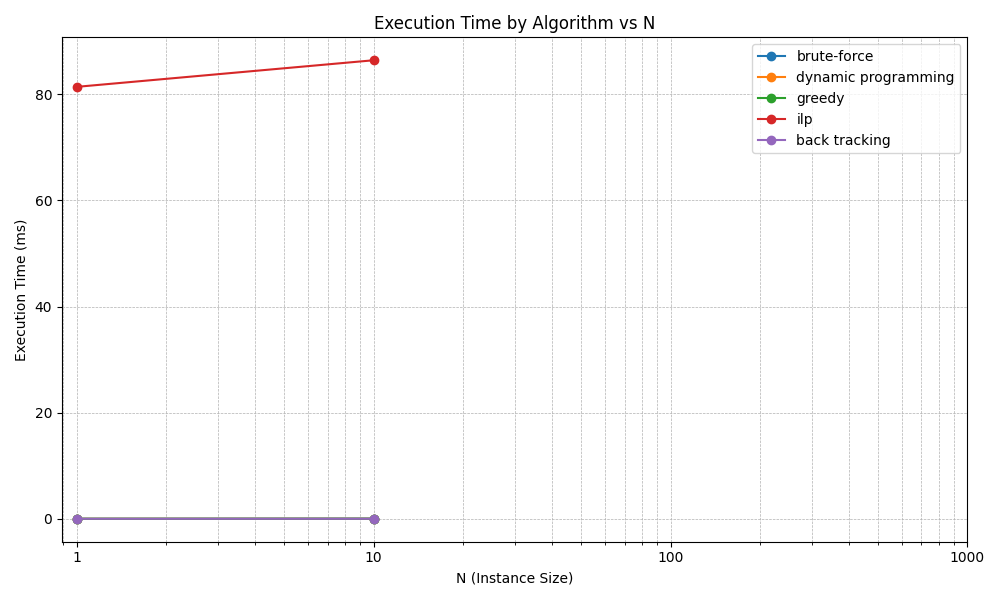
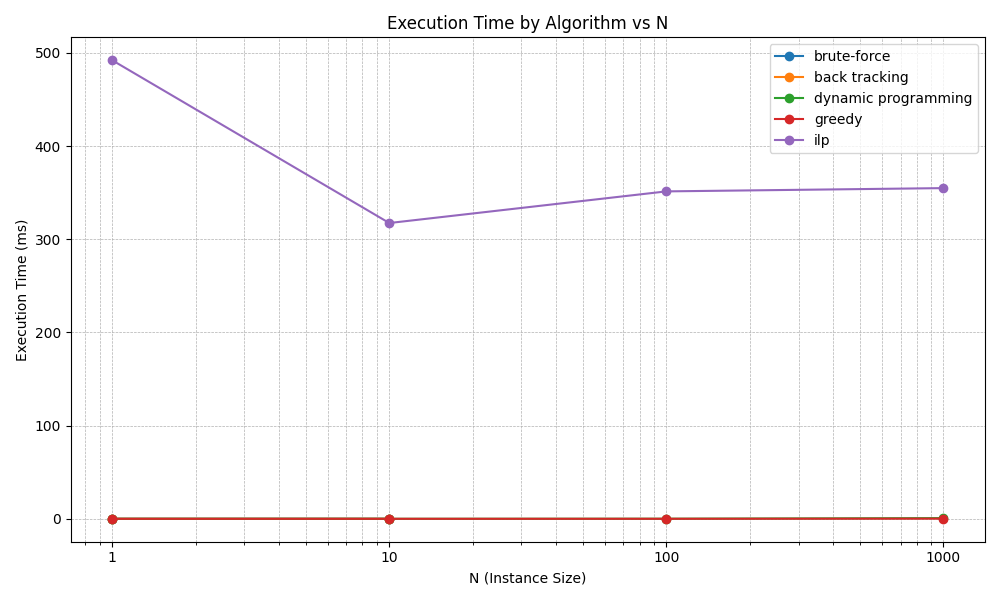
Commit versão final com os gráficos a funcionar
Falta fazer commit do results

diff --git a/main.cpp b/main.cpp
@@ -9,45 +9,67 @@
 
 // Modo batch: corre todos os algoritmos em todos os datasets
 void runBatchMode() {
-    std::ofstream clearFile("results.csv", std::ofstream::trunc);
+    std::ofstream clearFile("results_and_graphs/results.csv", std::ofstream::trunc);
     clearFile << "Dataset,Algorithm,Execution Time (ms),Total Profit,Total Weight,Selected Pallets\n";
     clearFile.close();
-    std::vector<std::string> trucks     = {"TruckAndPallets_01.csv", "TruckAndPallets_02.csv", "TruckAndPallets_03.csv", "TruckAndPallets_04.csv"};
-    std::vector<std::string> datasets   = { "Pallets_01.csv", "Pallets_10.csv", "Pallets_100.csv", "Pallets_1000.csv" };
-    std::vector<std::string> algorithms = { "brute_force", "dynamic", "greedy", "ilp", "back_tracking"};
+
+    std::vector<std::string> trucks   = {
+        "TruckAndPallets_01.csv",
+        "TruckAndPallets_02.csv",
+        "TruckAndPallets_03.csv",
+        "TrucksAndPallets_04.csv"
+    };
+    std::vector<std::string> datasets = {
+        "Pallets_01.csv",
+        "Pallets_10.csv",
+        "Pallets_100.csv",
+        "Pallets_1000.csv"
+    };
 
     std::cout << "Modo Batch iniciado...\n";
-    for (int i = 0; i < trucks.size(); i++) {
-        auto truck = readTruckInfo(trucks[i]);
+    for (size_t i = 0; i < datasets.size(); ++i) {
+        auto truck   = readTruckInfo(trucks[i]);
         auto pallets = readPallets(datasets[i]);
-        std::cout << "\n[Batch] Dataset: " << datasets[i] << "\n";
-        for (const auto& alg : algorithms) {
-            runAlgorithm(alg, pallets, truck.capacity, datasets[i], "results.csv");
+        int n        = pallets.size();
+
+        // só executa força‐bruta e backtracking se n <= 20
+        std::vector<std::string> algs = {"dynamic", "greedy", "ilp"};
+        if (n <= 20) {
+            algs.insert(algs.begin(), {"brute_force", "back_tracking"});
+        }
+
+        std::cout << "\n[Batch] Dataset: " << datasets[i]
+                  << " (n=" << n << ")\n";
+        for (auto &alg : algs) {
+            runAlgorithm(alg, pallets, truck.capacity,
+                         datasets[i], "results_and_graphs/results.csv");
         }
     }
-    std::cout << "\nModo Batch concluído. Verifique o ficheiro results.csv\n";
+    std::cout << "\nModo Batch concluído. Verifique results_and_graphs/results.csv\n";
 }
 
+
+// Mostra o menu interativo
 // Mostra o menu interativo
 void showMenu() {
-    std::cout << "\n==== Menu de Otimização de Paletes ====\n";
-    std::cout << "1) Escolher dataset\n";
-    std::cout << "2) Escolher algoritmo\n";
-    std::cout << "3) Executar\n";
-    std::cout << "4) Sair\n";
-    std::cout << "Opção: ";
+    std::cout << "\n==== Pallet Optimization Menu ====\n";
+    std::cout << "1) Choose dataset\n";
+    std::cout << "2) Choose algorithm\n";
+    std::cout << "3) Run\n";
+    std::cout << "4) Exit\n";
+    std::cout << "Option: ";
 }
 
 int main() {
     // Seleção inicial de modo
-    std::cout << "Selecione o modo de execução:\n"
-              << "  1) Modo Interativo\n"
-              << "  2) Modo Batch (executar todos os algoritmos)\n"
-              << "Escolha: ";
+    std::cout << "Select execution mode:\n"
+              << "  1) Interactive Mode\n"
+              << "  2) Batch Mode (run all algorithms)\n"
+              << "Choice: ";
     int mode;
     std::cin >> mode;
     if (!std::cin || (mode != 1 && mode != 2)) {
-        std::cerr << "Seleção inválida. A terminar.\n";
+        std::cerr << "Invalid selection. Exiting.\n";
         return 1;
     }
 
@@ -58,17 +80,17 @@ int main() {
 
     // Modo Interativo
     {
-        std::ofstream clearFile("results.csv", std::ofstream::trunc);
+        std::ofstream clearFile("results_and_graphs/results.csv", std::ofstream::trunc);
         clearFile << "Dataset,Algorithm,Execution Time (ms),Total Profit,Total Weight,Selected Pallets\n";
     }
 
     TruckData truck = readTruckInfo("TruckAndPallets_01.csv");
-    std::cout << "Capacidade do camião: " << truck.capacity
-              << ", número de paletes disponíveis: " << truck.numPallets << "\n";
+    std::cout << "Truck capacity: " << truck.capacity
+              << ", number of available pallets: " << truck.numPallets << "\n";
 
     std::vector<std::string> datasets   = { "Pallets_01.csv", "Pallets_10.csv", "Pallets_100.csv", "Pallets_1000.csv" };
     std::vector<std::string> algorithms = { "brute_force", "dynamic", "greedy", "ilp", "back_tracking" };
-    std::vector<std::string> algoLabels  = { "Brute-force", "Programação Dinâmica", "Greedy", "ILP", "Back Tracking" };
+    std::vector<std::string> algoLabels  = { "Brute-force", "Dynamic Programming", "Greedy", "ILP", "Back Tracking" };
 
     int choiceDataset = -1;
     int choiceAlgo    = -1;
@@ -80,59 +102,60 @@ int main() {
         if (!std::cin || op < 1 || op > 4) {
             std::cin.clear();
             std::cin.ignore(std::numeric_limits<std::streamsize>::max(), '\n');
-            std::cout << "Opção inválida. Tente novamente.\n";
+            std::cout << "Invalid option. Try again.\n";
             continue;
         }
         if (op == 4) {
-            std::cout << "A sair...\n";
+            std::cout << "Exiting...\n";
             break;
         }
 
         if (op == 1) {
-            std::cout << "\nDatasets disponíveis:\n";
+            std::cout << "\nAvailable datasets:\n";
             for (size_t i = 0; i < datasets.size(); ++i)
                 std::cout << "  " << (i+1) << ") " << datasets[i] << "\n";
-            std::cout << "Escolha o dataset (número): ";
+            std::cout << "Choose dataset (number): ";
             int d; std::cin >> d;
             if (d >= 1 && d <= (int)datasets.size()) {
                 choiceDataset = d - 1;
-                std::cout << "Dataset selecionado: " << datasets[choiceDataset] << "\n";
+                std::cout << "Selected dataset: " << datasets[choiceDataset] << "\n";
             } else {
-                std::cout << "Índice inválido.\n";
+                std::cout << "Invalid index.\n";
             }
 
         } else if (op == 2) {
-            std::cout << "\nAlgoritmos disponíveis:\n";
+            std::cout << "\nAvailable algorithms:\n";
             for (size_t i = 0; i < algoLabels.size(); ++i)
                 std::cout << "  " << (i+1) << ") " << algoLabels[i] << "\n";
-            std::cout << "Escolha o algoritmo (número): ";
+            std::cout << "Choose algorithm (number): ";
             int a; std::cin >> a;
             if (a >= 1 && a <= (int)algorithms.size()) {
                 choiceAlgo = a - 1;
-                std::cout << "Algoritmo selecionado: " << algoLabels[choiceAlgo] << "\n";
+                std::cout << "Selected algorithm: " << algoLabels[choiceAlgo] << "\n";
             } else {
-                std::cout << "Índice inválido.\n";
+                std::cout << "Invalid index.\n";
             }
 
         } else if (op == 3) {
             if (choiceDataset < 0) {
-                std::cout << "Por favor, escolha primeiro um dataset (opção 1).\n";
+                std::cout << "Please choose a dataset first (option 1).\n";
                 continue;
             }
             if (choiceAlgo < 0) {
-                std::cout << "Por favor, escolha primeiro um algoritmo (opção 2).\n";
+                std::cout << "Please choose an algorithm first (option 2).\n";
                 continue;
             }
             auto pallets = readPallets(datasets[choiceDataset]);
-            std::cout << "\nExecutando " << algoLabels[choiceAlgo]
-                      << " no dataset " << datasets[choiceDataset] << "...\n";
+            std::cout << "\nRunning " << algoLabels[choiceAlgo]
+                      << " on dataset " << datasets[choiceDataset] << "...\n";
             runAlgorithm(
                 algorithms[choiceAlgo],
                 pallets,
                 truck.capacity,
                 datasets[choiceDataset],
-                "results.csv"
+                "results_and_graphs/results.csv"
             );
         }
     }
-    return 0;}
+    return 0;
+}

diff --git a/results_and_graphs/generate_graphs.py b/results_and_graphs/generate_graphs.py
@@ -1,9 +1,14 @@
 import pandas as pd
 import matplotlib.pyplot as plt
 import re
+import os
 
-# Lê o ficheiro results.csv que está uma pasta acima da pasta onde o script está
-df = pd.read_csv('../results.csv')
+script_dir = os.path.dirname(__file__)
+csv_path = os.path.join(script_dir, "results.csv")
+
+
+# Lê o ficheiro results.csv
+df = pd.read_csv(csv_path)
 
 # Limpar espaços em branco no nome do dataset
 df['Dataset'] = df['Dataset'].str.strip()
